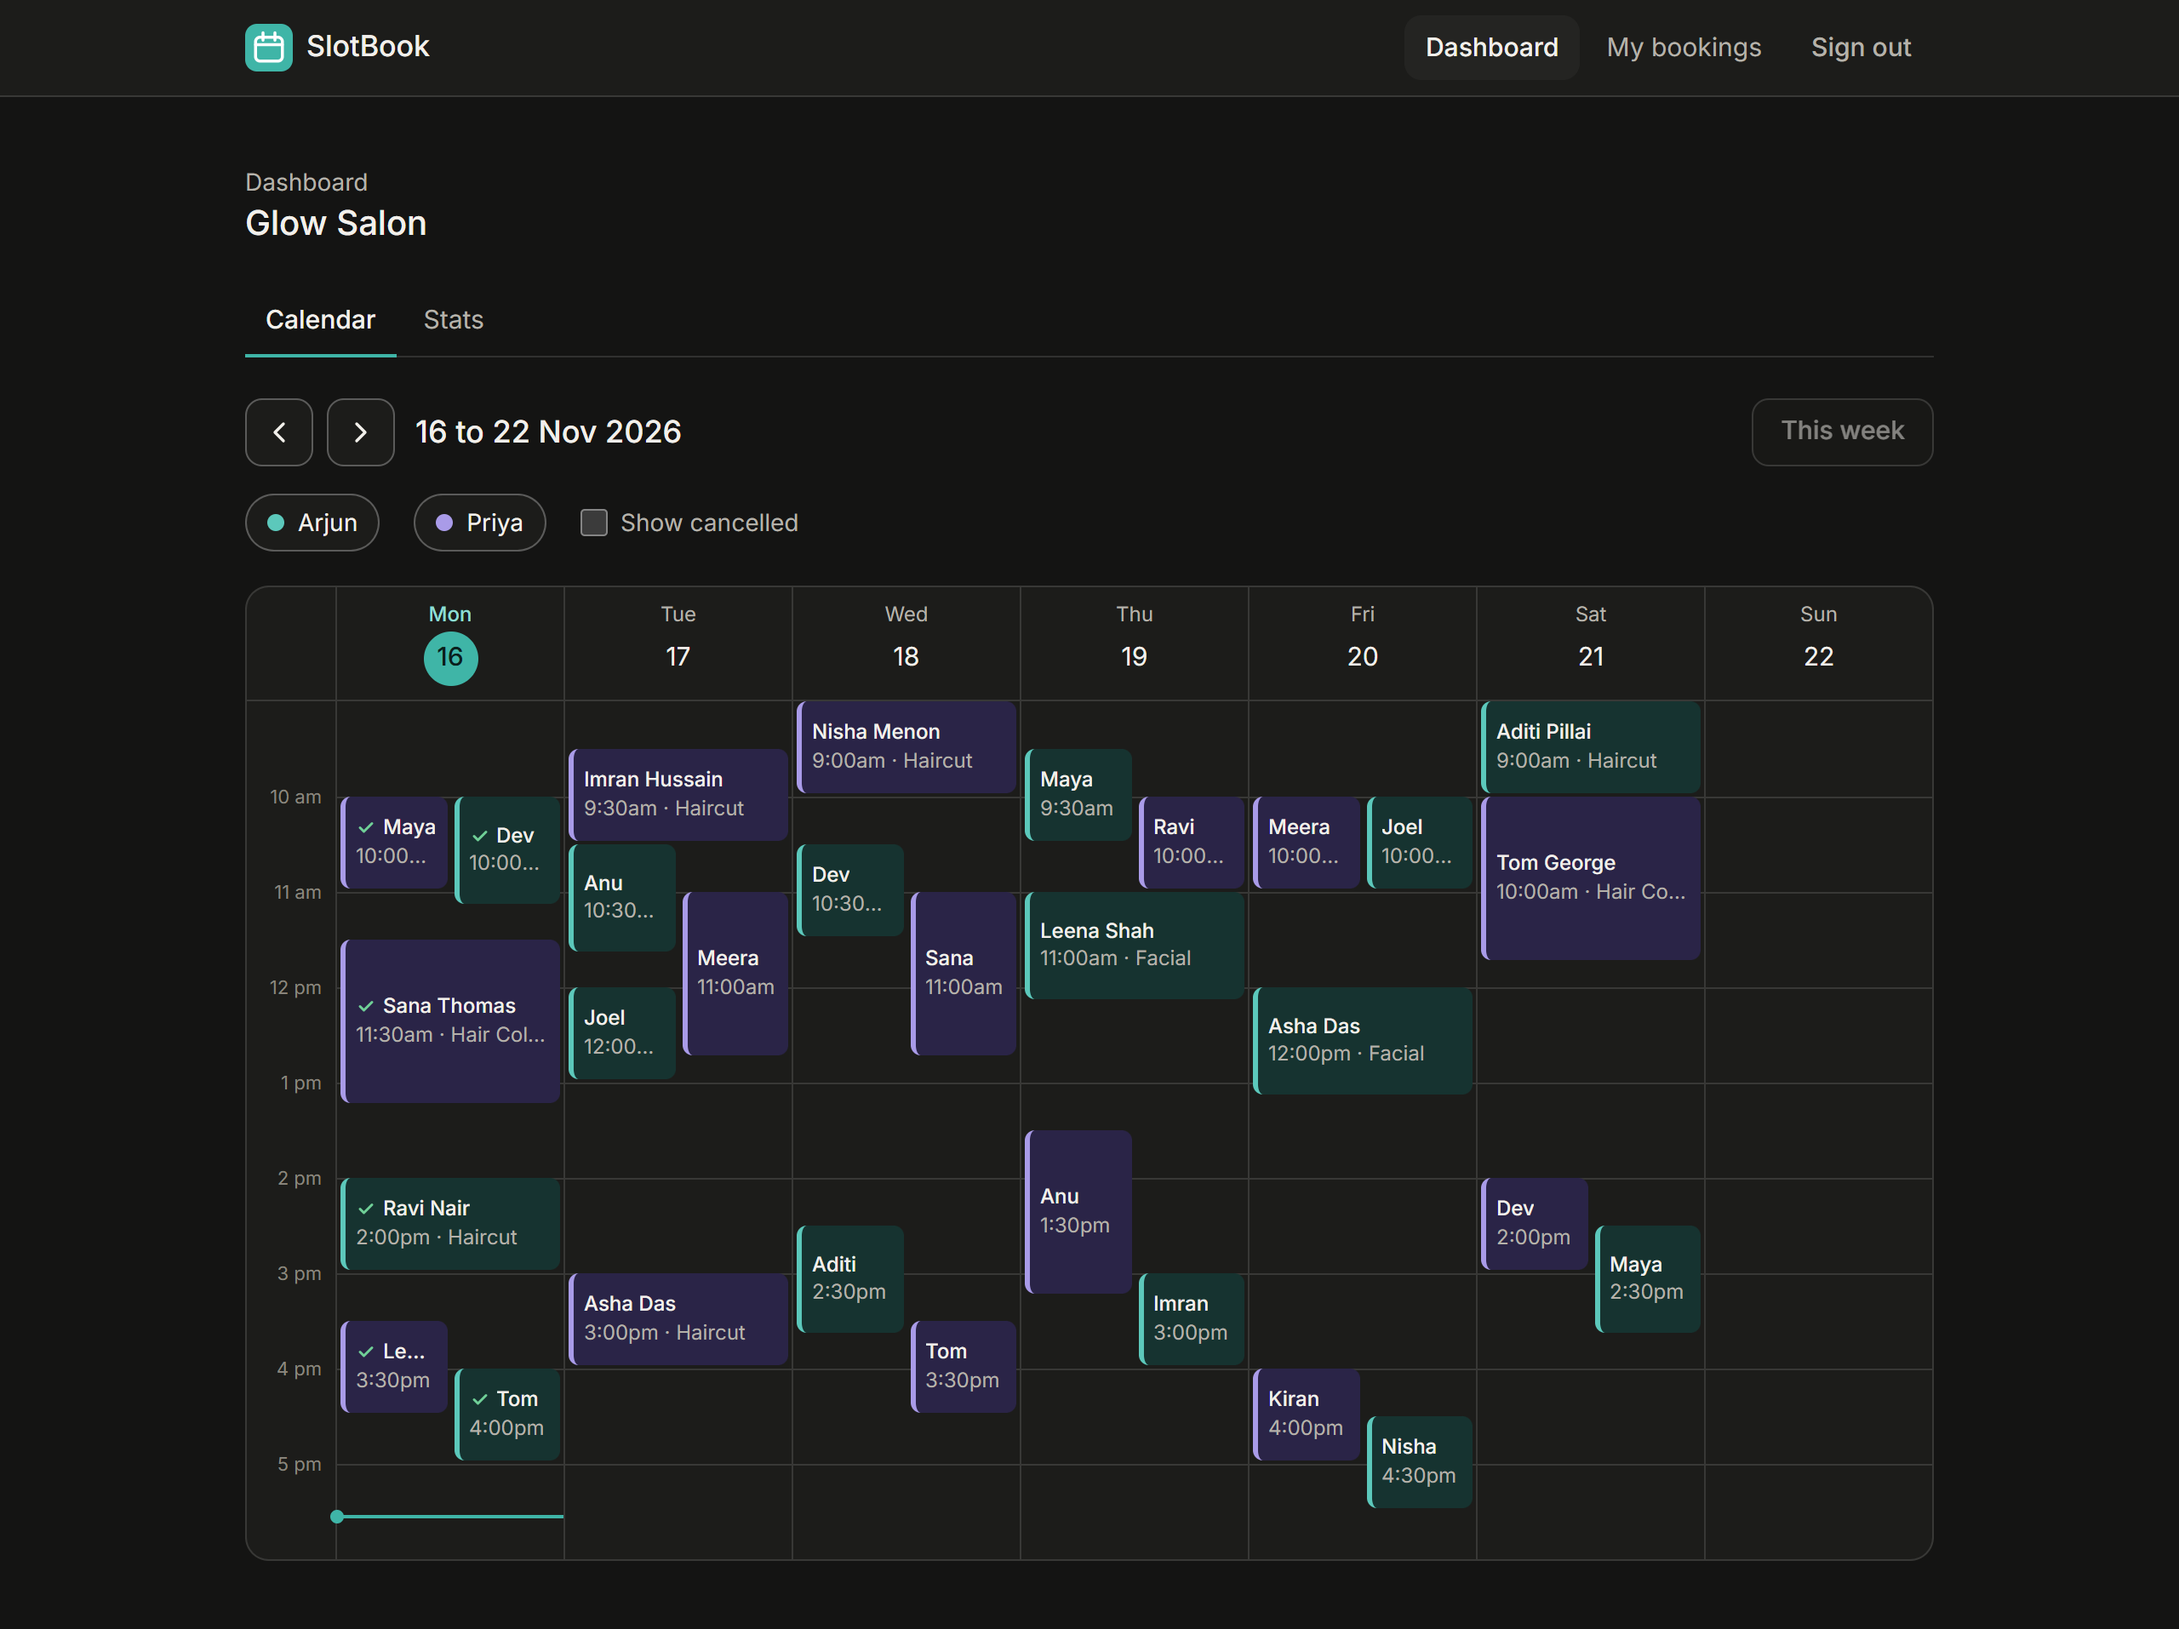
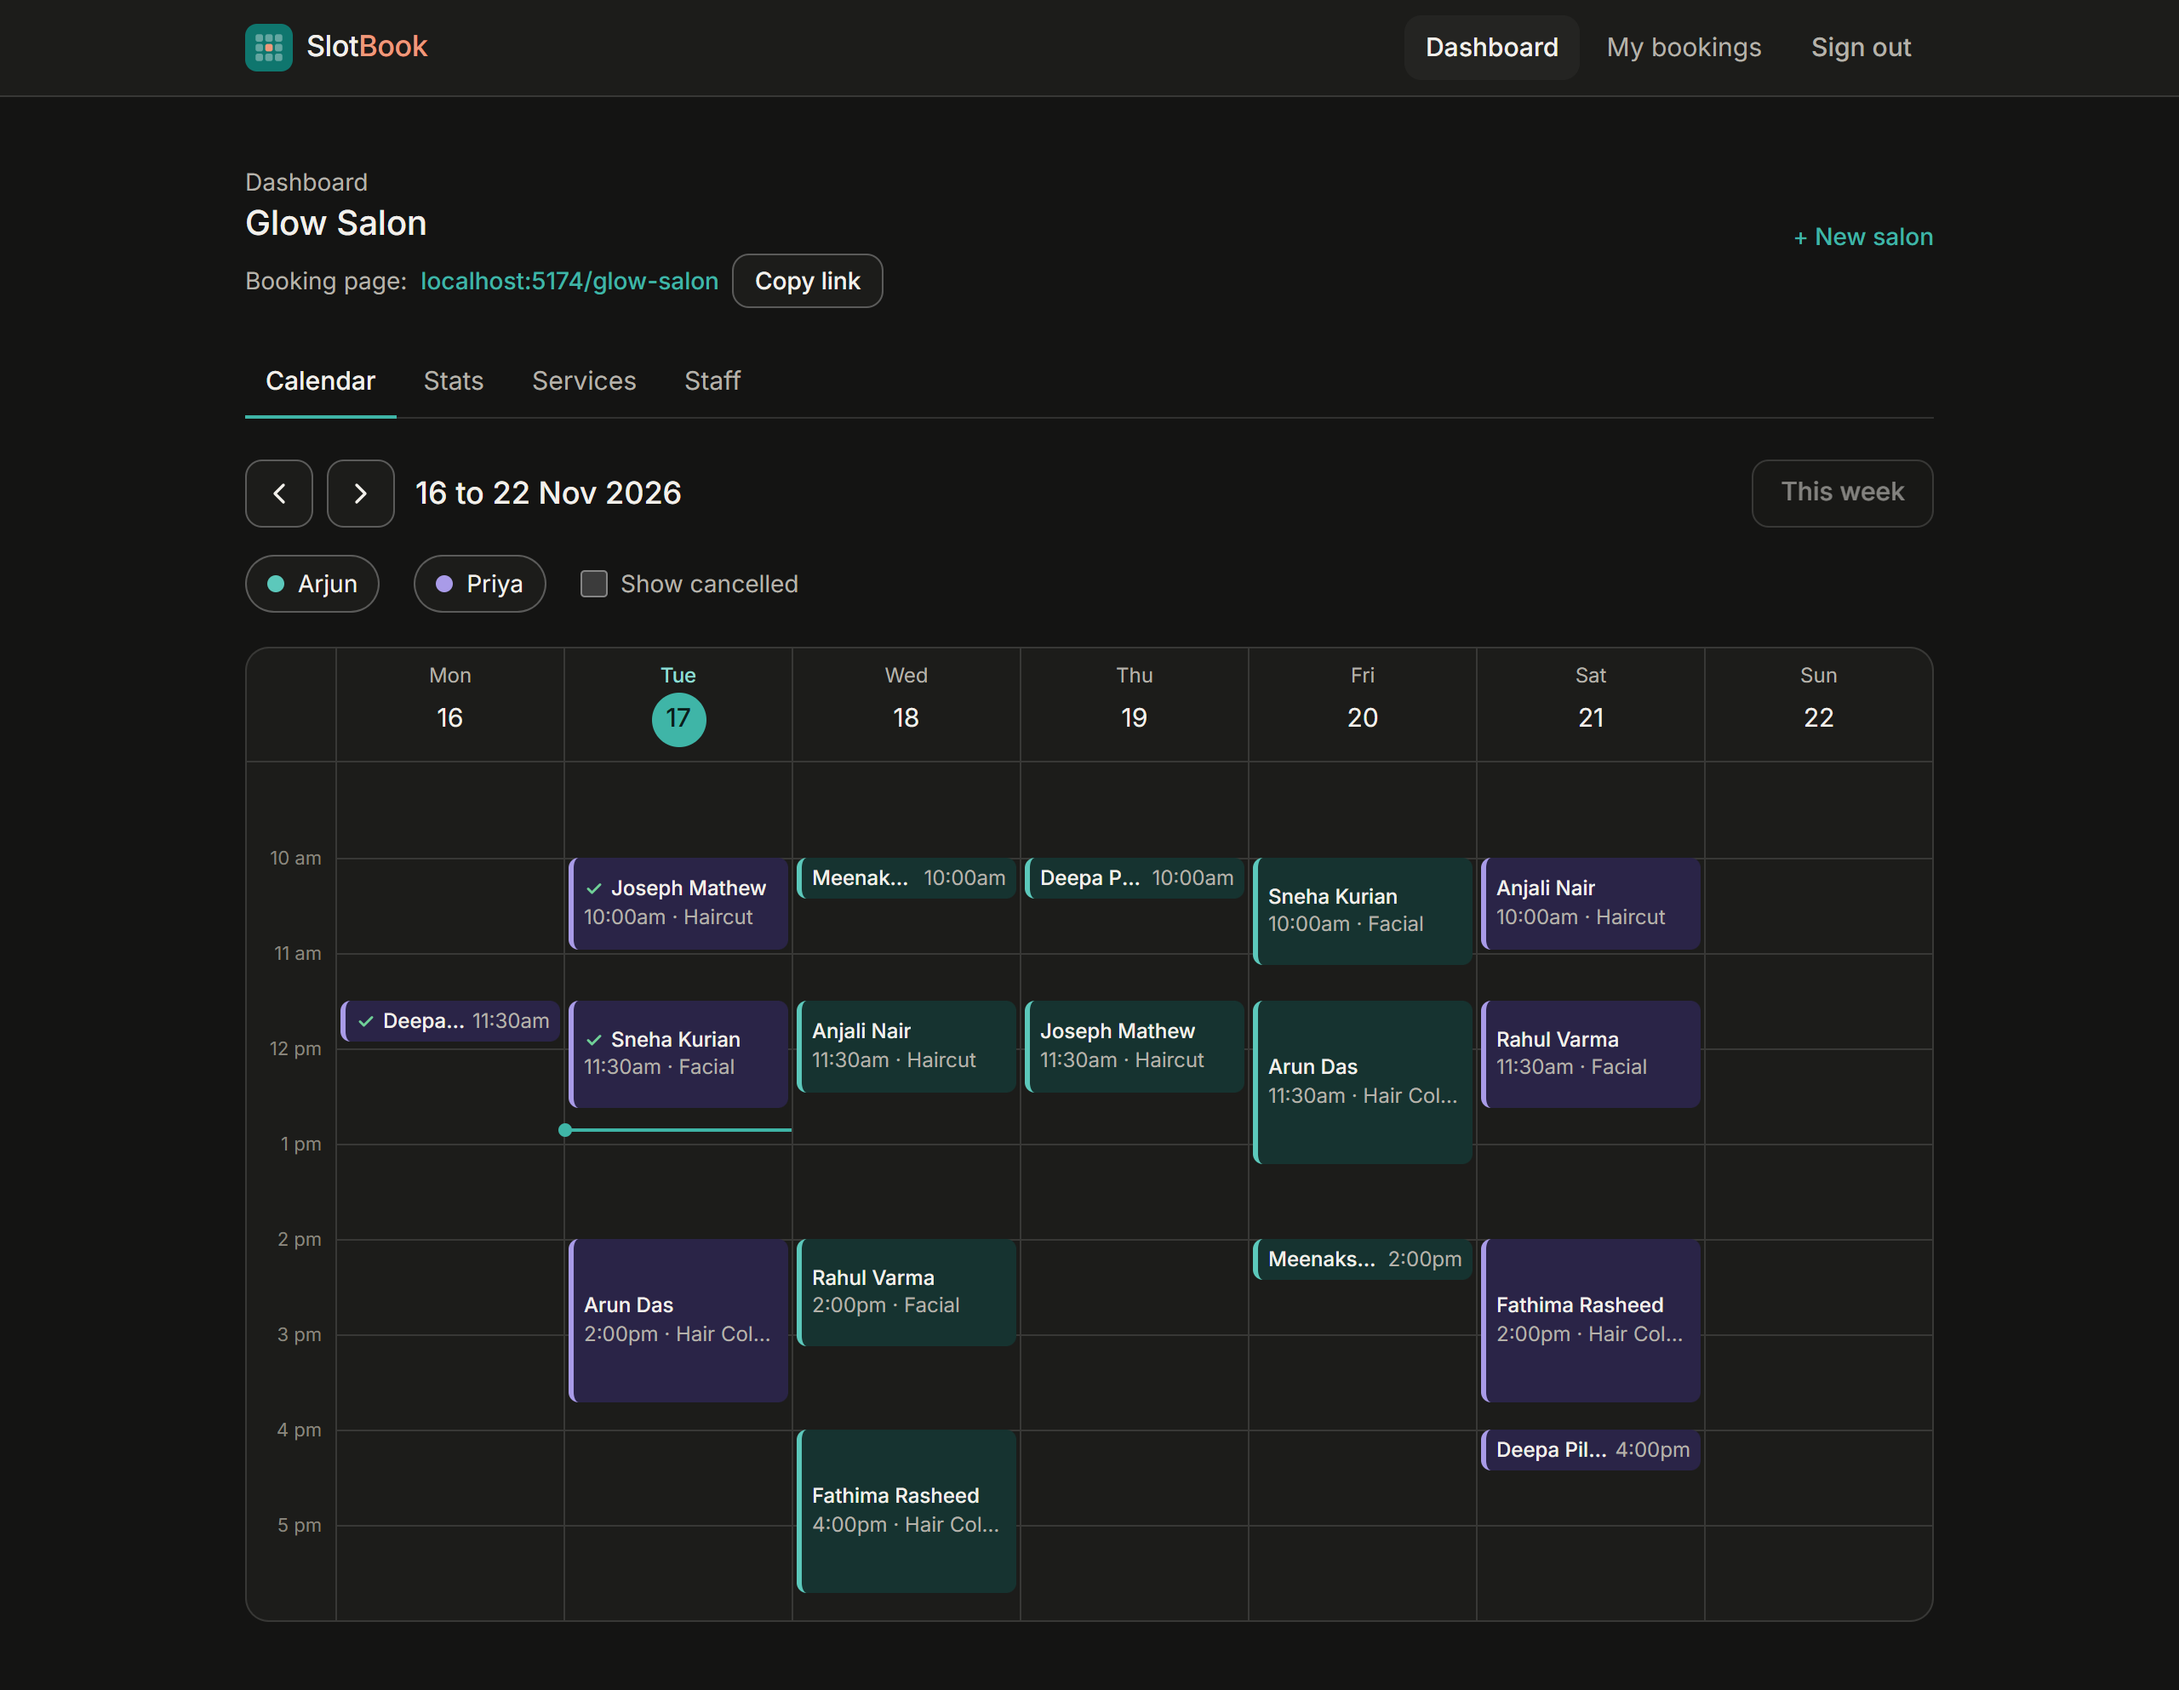
README: owner setup, new screenshots, and what changed since launch
New screenshots of owner setup (the salon form, the setup checklist over
the Services tab, and a staff member's weekly hours), and every existing
screenshot retaken so they show the new logo. All sample data is
fictional and was removed from the local database afterwards.

The text gains a "set up your own salon" link, three new rows in the
interesting-problems table (booking prices kept per booking, taken and
reserved addresses, the setup checklist), the web app's owner setup,
the new staff routes, current test counts and an updated roadmap.

diff --git a/README.md b/README.md
@@ -16,6 +16,7 @@ and running it all in production.
 
 - **Book an appointment:** [slotbook-gamma.vercel.app/glow-salon](https://slotbook-gamma.vercel.app/glow-salon)
 - **Owner dashboard:** [slotbook-gamma.vercel.app](https://slotbook-gamma.vercel.app). Sign in as `owner@slotbook.test` with the password `password123` (a shared demo account, so others may change its data)
+- **Set up your own salon:** [slotbook-gamma.vercel.app/dashboard/new](https://slotbook-gamma.vercel.app/dashboard/new). Create an account, name your salon, then follow the checklist: services, staff and their hours
 
 The web app is on Vercel, the API and Redis on Render, and PostgreSQL on Neon, all on free plans. The API
 sleeps when nobody has used it for a while, so the first visit can take up to a minute while it
@@ -32,6 +33,19 @@ Taken from the running app, with fictional sample data. Everything follows the v
   <img src="docs/screenshots/booking-desktop.png" alt="The booking page on a desktop: four services, a choice of staff, a day strip, open times grouped by morning, afternoon and evening, and a summary card with a Confirm booking button" width="480">
   <img src="docs/screenshots/booking-mobile.png" alt="The booking page on a phone: day strip, grouped times and a pinned Confirm bar" width="215">
   <img src="docs/screenshots/booking-mobile-dark.png" alt="The same phone page in dark mode" width="215">
+</p>
+
+**Owner setup.** A new owner names the salon and gets a booking address suggested from the name (addresses the app needs for itself, like `dashboard`, are refused, and a taken one says so beside the field). Until the salon can take a booking, a checklist says what's missing and links straight to it.
+
+<p align="center">
+  <img src="docs/screenshots/setup.png" alt="Set up your salon: salon name, a booking page address filled in from the name with a preview of the link, the timezone and an optional street address" width="410">
+  <img src="docs/screenshots/services-checklist.png" alt="A new salon's Services tab: three services with length, price and cleanup time, under a Finish setting up checklist whose next step is to add a person" width="410">
+</p>
+
+**Staff, hours and time off.** Each person has the services they offer, a weekly schedule with breaks (several blocks a day, "copy Monday to Tue–Fri"), and time off entered on the salon's own clock.
+
+<p align="center">
+  <img src="docs/screenshots/staff.png" alt="A staff member's page: the services they offer as checkboxes, and weekly hours with a lunch break from Monday to Saturday" width="520">
 </p>
 
 **Owner weekly calendar.** One colour per staff member, simultaneous bookings side by side, a line for the current time, and filters. Completed bookings carry a check mark. On a phone it becomes a day-by-day list.
@@ -99,6 +113,9 @@ sequenceDiagram
 | Stolen login tokens | Short-lived access token plus a rotating refresh token in an httpOnly cookie. A reused refresh token signs out every session | `modules/auth/auth.service.ts` |
 | One owner touching another owner's data | Every owner action starts by loading the business through its owner; strangers get a 404, not a 403 | `getOwnedBusiness()` in `modules/businesses/` |
 | Reminder emails for bookings that were cancelled or moved | Jobs sit in a Redis queue, but the database is the source of truth: the worker re-checks before sending | `modules/notifications/` |
+| Changing a price would rewrite last month's revenue | Each booking keeps a copy of the price it was made at. The migration that added it filled in existing bookings before making the column required | `migrations/*_booking_price`, `tests/booking-price.test.ts` |
+| Two new owners claim the same booking address at once | The unique index decides, not an "is it free?" lookup; the loser gets `SLUG_TAKEN`. Addresses the web app uses itself (`dashboard`, `assets`) are refused | `modules/businesses/`, `tests/businesses.test.ts` |
+| A salon whose booking page shows no times, and nobody knows why | The dashboard checks the three things that must line up (a service, someone who offers it, their hours) and shows the next missing step | `apps/web/src/dashboard/setup.ts` |
 | Abuse and brute-forcing | A Redis fixed-window rate limiter with stricter limits on login and sign-up | `middleware/rateLimit.ts` |
 | Debugging production | One structured JSON log line per request with a request id; secrets are never logged | `lib/logger.ts`, `app.ts` |
 
@@ -112,7 +129,8 @@ sequenceDiagram
 | Email | Resend (printed to the console when no key is set) |
 | Validation, dates | Zod, Luxon |
 | Logging | pino |
-| Tests | Vitest, Supertest (157 tests, against real Postgres and Redis) |
+| Web app | React 19, Vite, Tailwind 4, TanStack Query |
+| Tests | Vitest, Supertest (177 API tests against real Postgres and Redis, plus 81 web tests) |
 | Packaging and CI | Docker, GitHub Actions |
 
 ## Getting started
@@ -157,6 +175,10 @@ Deploying it: see [docs/DEPLOY.md](docs/DEPLOY.md).
   revenue for a period you choose (last 7 or 30 days, this or last month, or your own dates, up to
   92 days), a bar chart of bookings per day, how bookings ended, and the top services. The chart is
   plain elements with no chart library, and is readable by screen readers through a hidden table.
+- owner **setup** (`/dashboard/new`): create a salon, then the **Services** tab (add, edit, hide;
+  prices typed in rupees and stored as whole paise) and the **Staff** tab (who offers what, weekly
+  hours with breaks, time off). A checklist shows what's still missing before the salon can take a
+  booking, and the booking link sits under the salon's name with a Copy button.
 
 To try the owner side locally, sign in as `owner@slotbook.test` (created by `npm run db:seed`).
 
@@ -187,8 +209,8 @@ Customers and owners sign in with `POST /auth/login` and send `Authorization: Be
 | Anyone | `POST /auth/register`, `/auth/login`, `/auth/refresh`, `/auth/logout` | Accounts and sessions |
 | Anyone | `GET /auth/me` | The signed-in user |
 | Owner | `POST /businesses`, `GET /businesses/mine`, `PATCH /businesses/:id` | Manage salons |
-| Owner | `/businesses/:id/services` | Create, list, update, hide services |
-| Owner | `/businesses/:id/staff`, `.../staff/:staffId/services` | Staff and what each one offers |
+| Owner | `/businesses/:id/services` | Create, list, update, hide and show again |
+| Owner | `/businesses/:id/staff`, `.../staff/:staffId`, `.../staff/:staffId/services` | Add, rename, hide staff, and what each one offers |
 | Owner | `.../staff/:staffId/working-hours` | Weekly schedule, split shifts allowed |
 | Owner | `.../staff/:staffId/time-off` | Leave and holidays |
 | Owner | `GET /businesses/:id/bookings` | Bookings in a date range |
@@ -217,7 +239,9 @@ apps/api/
 Dockerfile                        production image
 docker-compose.yml                dev services, plus the full stack with --profile full
 .github/workflows/ci.yml          type check, tests and an image build on every push
+apps/web/                         the React web app (booking page, My bookings, owner dashboard)
 docs/DEPLOY.md                    putting it online
+docs/brand/                       the logo, light and dark
 ```
 
 ## Roadmap
@@ -231,8 +255,10 @@ docs/DEPLOY.md                    putting it online
 - [x] **Week 6:** reminder emails with Redis and BullMQ
 - [x] **Week 7:** owner calendar and stats, rate limiting, structured logging
 - [x] **Week 8:** Dockerfile, GitHub Actions CI, deployment guide, architecture diagram
-
-Frontend: the customer booking page, "My bookings", the owner calendar and the stats dashboard are built.
+- [x] **Web app:** booking page, "My bookings", owner calendar and stats
+- [x] **Live:** deployed on Vercel, Render and Neon
+- [x] **Owner setup:** create a salon, services, staff, hours and time off, the setup checklist,
+  and bookings that keep the price they were made at
 
 Ideas for later: Google Calendar sync, Stripe deposits to reduce no-shows,
 a waitlist, and a Claude-powered "book by chat" assistant.
